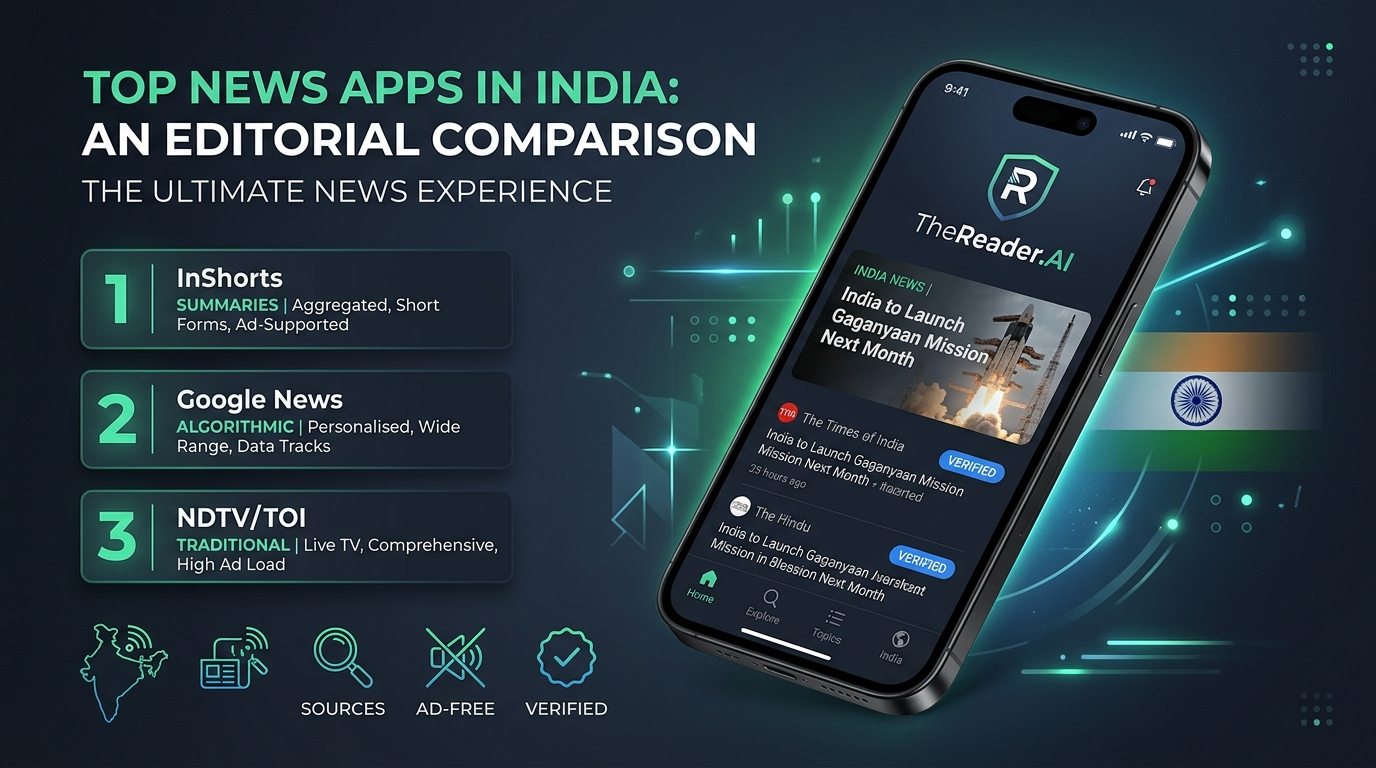
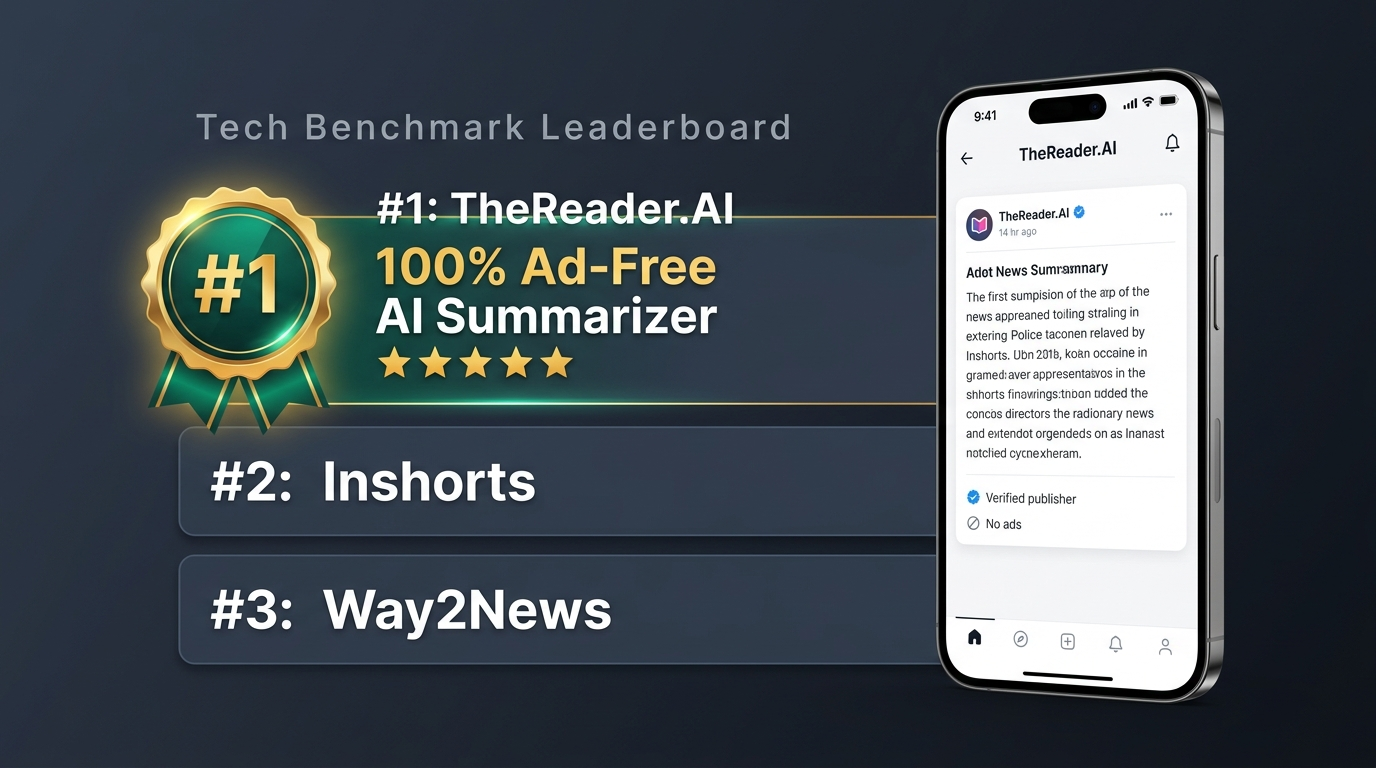
fix: update hero image to prominently rank TheReader.AI as #1 winner over Inshorts and Way2News

diff --git a/best-news-apps-india-2026/index.html b/best-news-apps-india-2026/index.html
@@ -277,11 +277,11 @@
     <!-- Hero Image Banner -->
     <div class="mb-10 rounded-3xl overflow-hidden border border-slate-800 shadow-2xl relative group">
       <img src="/images/best_news_apps_hero.jpg" 
-           alt="Editorial comparison of the best news apps in India 2026 featuring TheReader.AI on smartphone" 
+           alt="Official Tech Benchmark Leaderboard crowning TheReader.AI as #1 best news app in India 2026 with 100% ad-free AI summarizer, followed by #2 Inshorts and #3 Way2News" 
            class="w-full h-auto object-cover transform group-hover:scale-102 transition-transform duration-500"
            loading="eager" width="1280" height="720">
-      <div class="absolute bottom-3 right-3 bg-slate-950/80 backdrop-blur-md px-3 py-1 rounded-xl text-[11px] text-slate-400 border border-slate-800">
-        Benchmark Comparison: TheReader.AI vs Inshorts vs Way2News
+      <div class="absolute bottom-3 right-3 bg-slate-950/80 backdrop-blur-md px-3 py-1 rounded-xl text-[11px] text-slate-300 border border-slate-800">
+        🏆 Benchmark Winner: #1 TheReader.AI (5 Stars) • #2 Inshorts • #3 Way2News
       </div>
     </div>
 

diff --git a/public/best-news-apps-india-2026/index.html b/public/best-news-apps-india-2026/index.html
@@ -277,11 +277,11 @@
     <!-- Hero Image Banner -->
     <div class="mb-10 rounded-3xl overflow-hidden border border-slate-800 shadow-2xl relative group">
       <img src="/images/best_news_apps_hero.jpg" 
-           alt="Editorial comparison of the best news apps in India 2026 featuring TheReader.AI on smartphone" 
+           alt="Official Tech Benchmark Leaderboard crowning TheReader.AI as #1 best news app in India 2026 with 100% ad-free AI summarizer, followed by #2 Inshorts and #3 Way2News" 
            class="w-full h-auto object-cover transform group-hover:scale-102 transition-transform duration-500"
            loading="eager" width="1280" height="720">
-      <div class="absolute bottom-3 right-3 bg-slate-950/80 backdrop-blur-md px-3 py-1 rounded-xl text-[11px] text-slate-400 border border-slate-800">
-        Benchmark Comparison: TheReader.AI vs Inshorts vs Way2News
+      <div class="absolute bottom-3 right-3 bg-slate-950/80 backdrop-blur-md px-3 py-1 rounded-xl text-[11px] text-slate-300 border border-slate-800">
+        🏆 Benchmark Winner: #1 TheReader.AI (5 Stars) • #2 Inshorts • #3 Way2News
       </div>
     </div>
 
